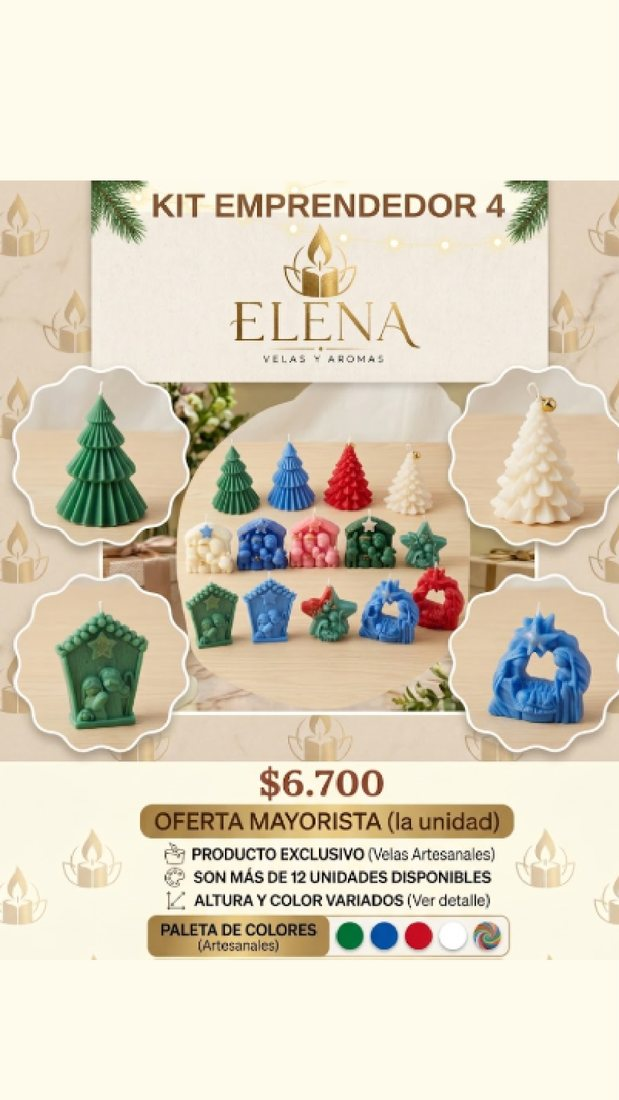
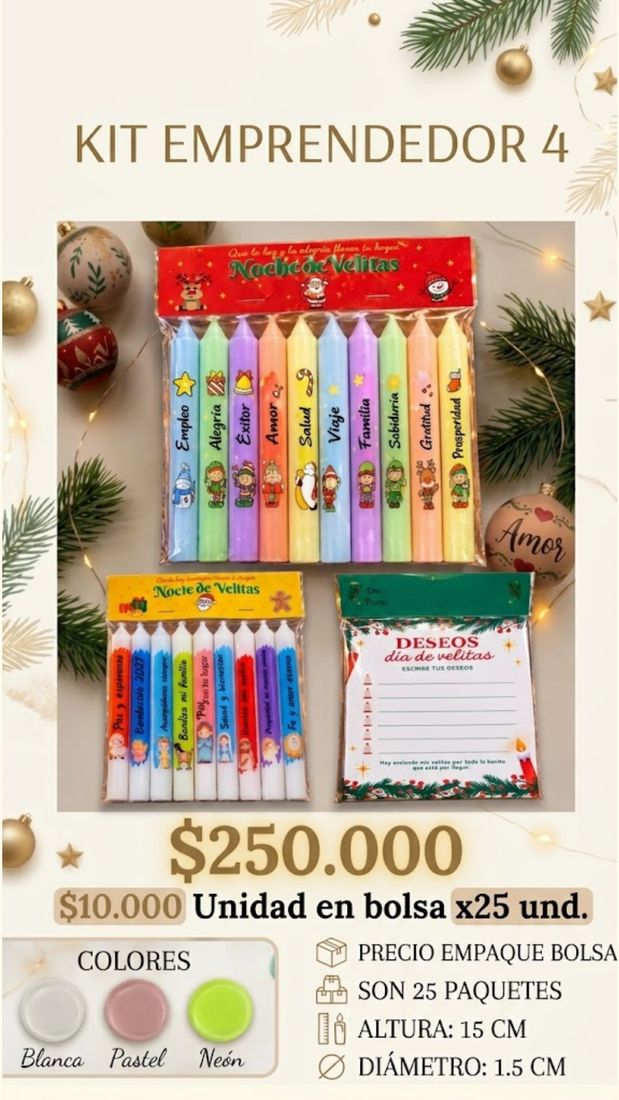
Actualiza Kit Emprendedor con las fichas nuevas
Ocho fichas nuevas, transcritas una a una. Cambios de precio:

  Kit 1   caja $250.000 -> $275.000   unidad $10.000 -> $11.000
  Kit 2   caja $312.500 -> $337.500   unidad $12.500 -> $13.500
  Kit 4   pasa de venta suelta a $6.700 con altura variada, a bolsa
          x25 unidades, 25 paquetes, 15cm x 1.5cm, $250.000 la bolsa
          y $10.000 la unidad

Kit 3, Kit 6 Papa Noel 1, Kit 7 Proposito y Kit 8 Navidad mantienen
precio; se actualiza igual su ficha porque el diseno cambio.

Producto nuevo: Kit Emprendedor 9, bolsa x25 unidades, 25 paquetes,
15cm x 1.5cm, $362.500 la bolsa y $14.500 la unidad.

Las fichas nuevas declaran colores (Blanca, Pastel, Neon) que el
catalogo no recogia. Se anaden a los kits 1, 2, 3, 4 y 9, que son los
que los traen.

Las ocho imagenes se guardan a 619x1100, el mismo formato que tenian
las anteriores, y pesan entre 84 y 117 KB.

Comprobado en el navegador: 10 tarjetas en la pestana Kit Emprendedor,
las diez con su foto cargada, y el modal del Kit 1 muestra la ficha
nueva con $275.000 y los tres colores.

Quedan dos kits pendientes de decision del cliente, que NO vienen en
las fichas nuevas: Kit 5 Vela Arbol Navidad y Kit 6 Vela Papa Noel 2.
Se dejan como estaban: borrar productos no se hace sin confirmar.

diff --git a/app.js b/app.js
@@ -1602,16 +1602,16 @@ const productos = {
       imagen: "assets/productos/Kit-Emprendedor/kit01.jpg",
       precios: {
         detal: { bolsa: 0, caja: 0 },
-        mayorista: { bolsa: 10000, caja: 250000 }
+        mayorista: { bolsa: 11000, caja: 275000 }
       },
       ficha: {
         medidas: [{ etiqueta: "Altura", valor: "15 cm" }, { etiqueta: "Diámetro", valor: "1.5 cm" }],
         empaque: "Caja x10 unidades",
         lote: "25 cajas",
-        colores: [{ nombre: "Blanca", hex: "#F4F1EA" }, { nombre: "Pastel", hex: "#E3AEB4" }, { nombre: "Neón", hex: "#C6F04A" }],
+        colores: [{ nombre: "Blanca", hex: "#F4F1EC" }, { nombre: "Pastel", hex: "#E8B9BC" }, { nombre: "Neón", hex: "#A8E10C" }],
         opciones: [
-          { nombre: "Caja completa", detalle: "10 unidades", precio: 250000 },
-          { nombre: "Unidad suelta", detalle: "dentro de la caja", precio: 10000 }
+          { nombre: "Caja completa", detalle: null, precio: 275000 },
+          { nombre: "Unidad suelta", detalle: null, precio: 11000 }
         ]
       }
     },
@@ -1623,16 +1623,16 @@ const productos = {
       imagen: "assets/productos/Kit-Emprendedor/kit02.jpg",
       precios: {
         detal: { bolsa: 0, caja: 0 },
-        mayorista: { bolsa: 12500, caja: 312500 }
+        mayorista: { bolsa: 13500, caja: 337500 }
       },
       ficha: {
         medidas: [{ etiqueta: "Altura", valor: "15 cm" }, { etiqueta: "Diámetro", valor: "1.5 cm" }],
         empaque: "Caja x10 unidades",
         lote: "25 cajas",
-        colores: [{ nombre: "Blanca", hex: "#F4F1EA" }, { nombre: "Pastel", hex: "#E3AEB4" }, { nombre: "Neón", hex: "#C6F04A" }],
+        colores: [{ nombre: "Blanca", hex: "#F4F1EC" }, { nombre: "Pastel", hex: "#E8B9BC" }, { nombre: "Neón", hex: "#A8E10C" }],
         opciones: [
-          { nombre: "Caja completa", detalle: "10 unidades", precio: 312500 },
-          { nombre: "Unidad suelta", detalle: "dentro de la caja", precio: 12500 }
+          { nombre: "Caja completa", detalle: null, precio: 337500 },
+          { nombre: "Unidad suelta", detalle: null, precio: 13500 }
         ]
       }
     },
@@ -1650,10 +1650,10 @@ const productos = {
         medidas: [{ etiqueta: "Altura", valor: "15 cm" }, { etiqueta: "Diámetro", valor: "1.5 cm" }],
         empaque: "Caja x10 unidades",
         lote: "25 cajas",
-        colores: [{ nombre: "Blanca", hex: "#F4F1EA" }, { nombre: "Pastel", hex: "#E3AEB4" }, { nombre: "Neón", hex: "#C6F04A" }],
+        colores: [{ nombre: "Blanca", hex: "#F4F1EC" }, { nombre: "Pastel", hex: "#E8B9BC" }, { nombre: "Neón", hex: "#A8E10C" }],
         opciones: [
-          { nombre: "Caja completa", detalle: "10 unidades", precio: 337500 },
-          { nombre: "Unidad suelta", detalle: "dentro de la caja", precio: 13500 }
+          { nombre: "Caja completa", detalle: null, precio: 337500 },
+          { nombre: "Unidad suelta", detalle: null, precio: 13500 }
         ]
       }
     },
@@ -1665,17 +1665,17 @@ const productos = {
       imagen: "assets/productos/Kit-Emprendedor/kit04.jpg",
       precios: {
         detal: { bolsa: 0, caja: 0 },
-        mayorista: { bolsa: 6700, caja: 6700 }
+        mayorista: { bolsa: 10000, caja: 250000 }
       },
       ficha: {
-        medidas: [{ etiqueta: "Altura", valor: "Variada" }, { etiqueta: "Color", valor: "Variado" }],
-        empaque: "Venta por unidad",
-        lote: "Más de 12 unidades",
-        colores: [{ nombre: "Verde", hex: "#1E6B3A" }, { nombre: "Azul", hex: "#1F4FA8" }, { nombre: "Rojo", hex: "#B32027" }, { nombre: "Blanco", hex: "#F4F1EA" }, { nombre: "Multicolor", hex: "#C9A961" }],
+        medidas: [{ etiqueta: "Altura", valor: "15 cm" }, { etiqueta: "Diámetro", valor: "1.5 cm" }],
+        empaque: "Bolsa x25 unidades",
+        lote: "25 paquetes",
+        colores: [{ nombre: "Blanca", hex: "#F4F1EC" }, { nombre: "Pastel", hex: "#E8B9BC" }, { nombre: "Neón", hex: "#A8E10C" }],
         opciones: [
-          { nombre: "Oferta mayorista por unidad", detalle: null, precio: 6700 }
+          { nombre: "Bolsa completa", detalle: null, precio: 250000 },
+          { nombre: "Unidad suelta", detalle: null, precio: 10000 }
         ],
-        nota: "Producto exclusivo de velas artesanales."
       }
     },
     {
@@ -1713,8 +1713,8 @@ const productos = {
         empaque: "Bolsa x6 unidades",
         lote: "25 bolsas",
         opciones: [
-          { nombre: "Bolsa completa", detalle: "6 unidades", precio: 312500 },
-          { nombre: "Unidad suelta", detalle: "dentro de la bolsa", precio: 12500 }
+          { nombre: "Bolsa completa", detalle: null, precio: 312500 },
+          { nombre: "Unidad suelta", detalle: null, precio: 12500 }
         ]
       }
     },
@@ -1753,8 +1753,8 @@ const productos = {
         empaque: "Caja x6 unidades",
         lote: "20 cajas",
         opciones: [
-          { nombre: "Caja completa", detalle: "6 unidades", precio: 362000 },
-          { nombre: "Unidad suelta", detalle: "dentro de la caja", precio: 18100 }
+          { nombre: "Caja completa", detalle: null, precio: 362000 },
+          { nombre: "Unidad suelta", detalle: null, precio: 18100 }
         ]
       }
     },
@@ -1773,8 +1773,29 @@ const productos = {
         empaque: "Caja x6 unidades",
         lote: "20 cajas",
         opciones: [
-          { nombre: "Caja completa", detalle: "6 unidades", precio: 336000 },
-          { nombre: "Unidad suelta", detalle: "dentro de la caja", precio: 16800 }
+          { nombre: "Caja completa", detalle: null, precio: 336000 },
+          { nombre: "Unidad suelta", detalle: null, precio: 16800 }
+        ]
+      }
+    },
+    {
+      id: "kit10",
+      categoria: "kitEmprendedor",
+      nombre: "Kit Emprendedor 9",
+      descripcion: "Kit emprendedor de velitas Noche de Velitas, bolsa por 25 unidades, con tarjeta de deseos.",
+      imagen: "assets/productos/Kit-Emprendedor/kit10.jpg",
+      precios: {
+        detal: { bolsa: 0, caja: 0 },
+        mayorista: { bolsa: 14500, caja: 362500 }
+      },
+      ficha: {
+        medidas: [{ etiqueta: "Altura", valor: "15 cm" }, { etiqueta: "Diámetro", valor: "1.5 cm" }],
+        empaque: "Bolsa x25 unidades",
+        lote: "25 paquetes",
+        colores: [{ nombre: "Blanca", hex: "#F4F1EC" }, { nombre: "Pastel", hex: "#E8B9BC" }, { nombre: "Neón", hex: "#A8E10C" }],
+        opciones: [
+          { nombre: "Bolsa completa", detalle: null, precio: 362500 },
+          { nombre: "Unidad suelta", detalle: null, precio: 14500 }
         ]
       }
     }
